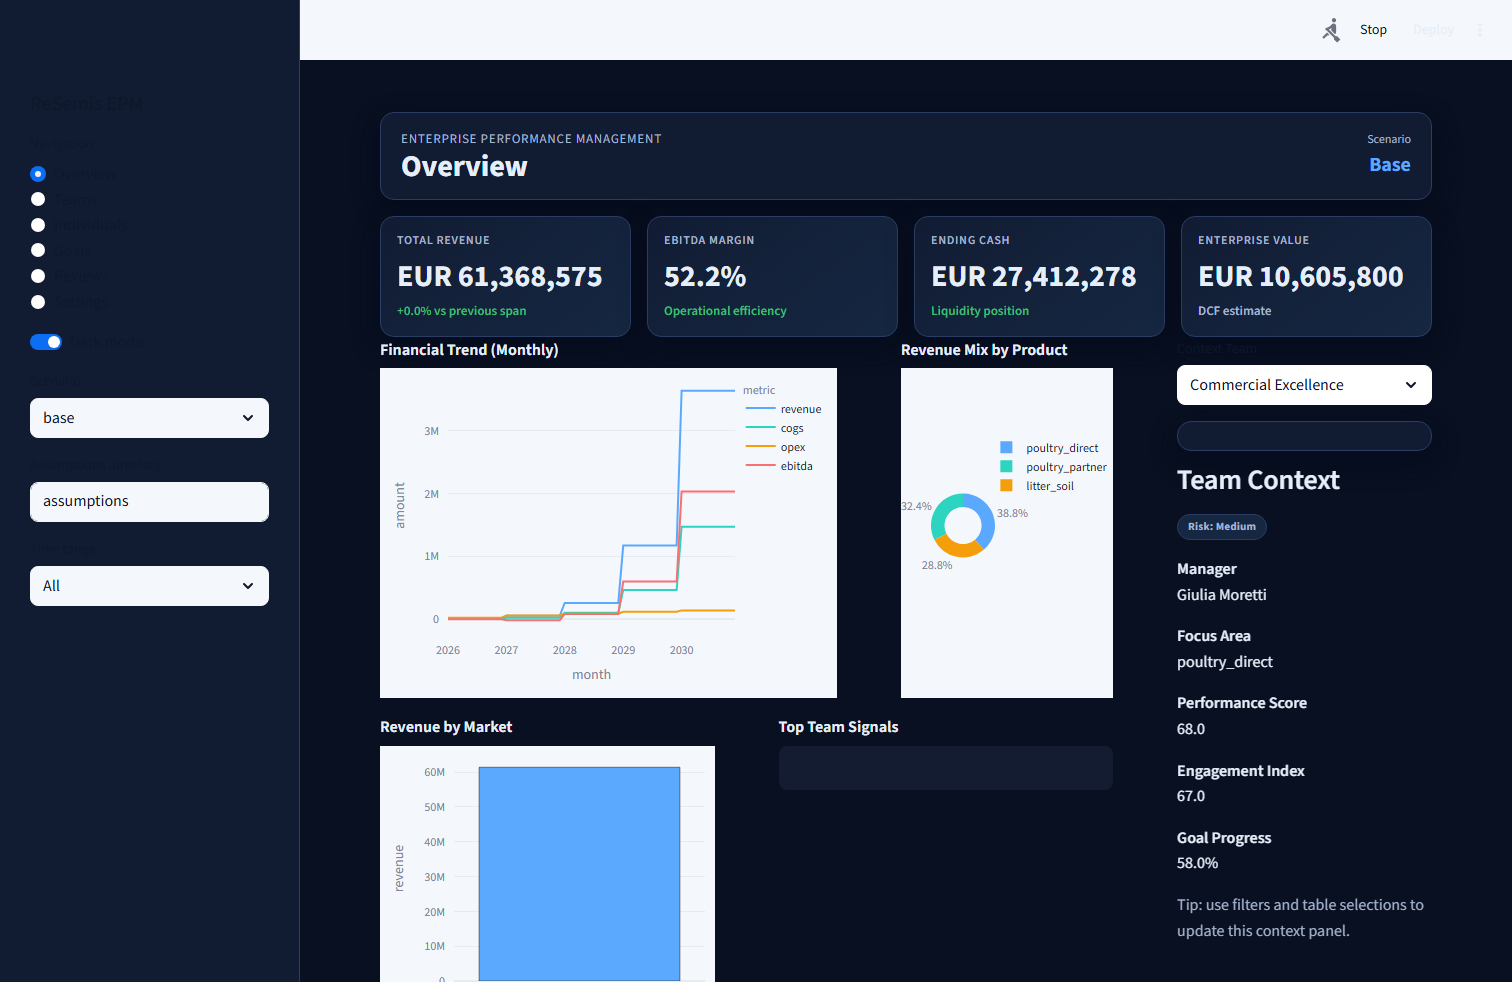
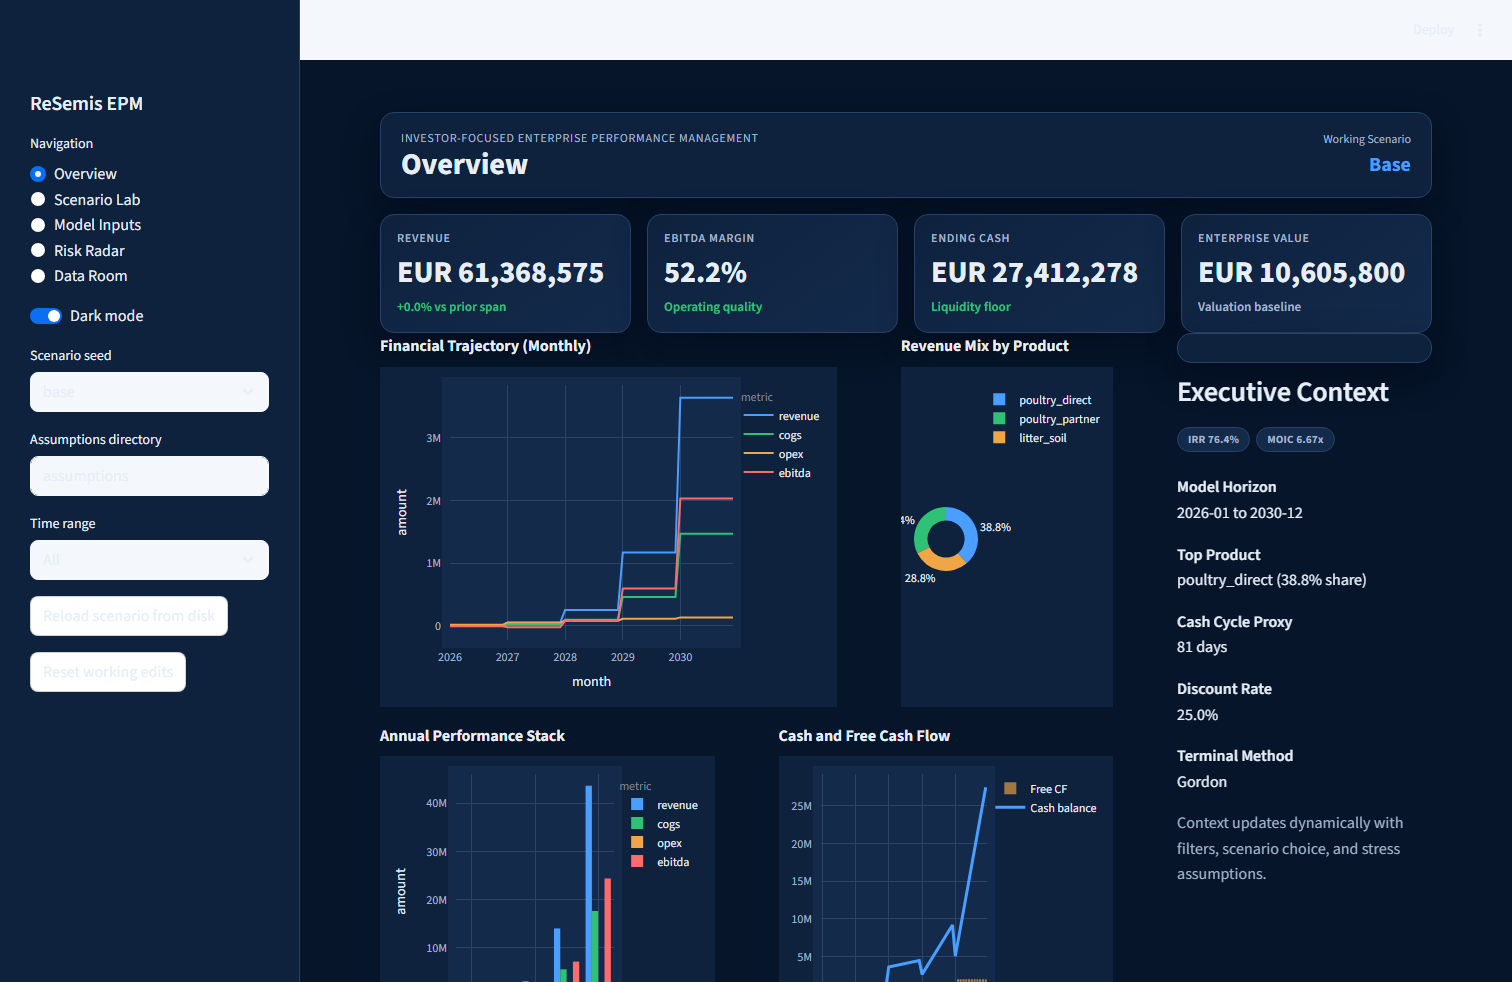
docs(ui): update validation artifacts and gsd state for finance ui

diff --git a/scripts/capture_ui_screenshots.py b/scripts/capture_ui_screenshots.py
@@ -5,6 +5,7 @@ from __future__ import annotations
 import subprocess
 import time
 from pathlib import Path
+from urllib.parse import quote
 from urllib.request import urlopen
 
 from playwright.sync_api import sync_playwright
@@ -13,7 +14,7 @@ from playwright.sync_api import sync_playwright
 PORT = 8503
 BASE_URL = f"http://127.0.0.1:{PORT}"
 OUT_DIR = Path("docs/design/ui-validation/screenshots")
-SECTIONS = ["overview", "teams", "individuals", "goals", "reviews", "settings"]
+SECTIONS = ["overview", "scenario lab", "model inputs", "risk radar", "data room"]
 THEMES = ["light", "dark"]
 
 
@@ -54,10 +55,10 @@ def main() -> None:
             for section in SECTIONS:
                 for theme in THEMES:
                     page = context.new_page()
-                    url = f"{BASE_URL}/?section={section}&theme={theme}"
+                    url = f"{BASE_URL}/?section={quote(section)}&theme={theme}"
                     page.goto(url, wait_until="domcontentloaded", timeout=45000)
                     page.wait_for_timeout(3500)
-                    path = OUT_DIR / f"{section}_{theme}.png"
+                    path = OUT_DIR / f"{section.replace(' ', '_')}_{theme}.png"
                     page.screenshot(path=str(path), full_page=True)
                     print(f"OK {path}")
                     page.close()

diff --git a/docs/design/MOODBOARD.md b/docs/design/MOODBOARD.md
@@ -1,50 +1,51 @@
 # ReSemis EPM UI Moodboard
 
-This moodboard synthesizes modern dashboard patterns for an enterprise EPM product used by executives, managers, and HR/finance stakeholders.
+This moodboard is now aligned to an investor/CEO/CFO use case, not HR workflows.
 
 ## Visual Direction
 
-- Professional minimalism: high-contrast typography, generous whitespace, constrained color palette with one accent.
-- Data-first hierarchy: top KPI strip, focused chart modules, then diagnostics tables.
-- Calm depth: soft radii, subtle panel shadows, restrained motion, clear affordances for filters and drill-down.
+- Investor cockpit style: strict hierarchy, clean surfaces, controlled accent color, low visual noise.
+- Decision-first narrative: headline KPIs first, then scenario spread, then risk and assumption drivers.
+- Auditability over decoration: every chart answers one financial question and maps to model assumptions.
 
-## Captured References
+## Key Reference Families
 
-### Inspiration Galleries
+### Dashboard shell and hierarchy
 
-1. Dribbble dashboard UI tag: `docs/design/moodboard/screenshots/dribbble_dashboard_ui.png`
-2. Dribbble performance dashboard search: `docs/design/moodboard/screenshots/dribbble_performance_dashboard.png`
-3. Awwwards dashboard gallery: `docs/design/moodboard/screenshots/awwwards_dashboard_gallery.png`
+1. Datadog dashboard layout patterns: `docs/design/moodboard/screenshots/datadog_dashboards_product.png`
+2. Power BI dashboard composition patterns: `docs/design/moodboard/screenshots/powerbi_design_tips.png`
+3. Tableau dashboard clarity rules: `docs/design/moodboard/screenshots/tableau_dashboard_best_practices.png`
 
-### Production Analytics References
+### Filters, controls, and drilldowns
 
-1. Power BI dashboard design guidance: `docs/design/moodboard/screenshots/powerbi_design_tips.png`
-2. Tableau dashboard best practices: `docs/design/moodboard/screenshots/tableau_dashboard_best_practices.png`
-3. Metabase filter UX patterns: `docs/design/moodboard/screenshots/metabase_filters.png`
-4. Datadog dashboard product page: `docs/design/moodboard/screenshots/datadog_dashboards_product.png`
-5. Looker dashboard docs: `docs/design/moodboard/screenshots/looker_dashboards_docs.png`
-6. Culture Amp action dashboard docs: `docs/design/moodboard/screenshots/cultureamp_action_dashboard.png`
-7. Lattice manager reporting docs: `docs/design/moodboard/screenshots/lattice_manager_reporting.png`
+1. Metabase filter system: `docs/design/moodboard/screenshots/metabase_filters.png`
+2. Looker dashboard exploration model: `docs/design/moodboard/screenshots/looker_dashboards_docs.png`
 
-## Pattern Extraction
+### FP&A and scenario-planning references
 
-- KPI strip at top with trend + delta and one headline value per card.
-- Left navigation + top control bar as the persistent shell.
-- Filter chips/dropdowns grouped by time, business unit, manager/team scope.
-- Right contextual panel for selected entity details and actions.
-- Grid modules that each answer one question (trend, distribution, variance, risk).
-- Dense tables only after high-level charts; include pagination and status badges.
-- Light and dark themes using shared semantic tokens (not one-off component overrides).
+1. Anaplan FP&A software positioning and use-case framing.
+2. Planful scenario-planning workflow concepts.
+3. Cube FP&A dashboard examples.
+4. CFI sensitivity-analysis/tornado pattern references.
+5. Local benchmark app: `C:/projects/resemis-model-audit/dashboard/app.py`
+
+## Pattern Synthesis Adopted
+
+- Top strip KPIs for Revenue, EBITDA Margin, Ending Cash, and Enterprise Value.
+- Dedicated Scenario Lab with deterministic scenario comparison plus stress sliders.
+- Explicit sensitivity view (single-metric tornado) for downside/upside communication.
+- Model Inputs workbench with editable client/market, product/pricing/mix, BOM/input costs, OpEx/CapEx/funding, and valuation blocks.
+- Risk Radar fed by model outputs (liquidity, concentration, working-capital pressure, valuation fragility).
+- Consistent light/dark mode tokens, including explicit chart canvas/grid/font colors to prevent unreadable dark-mode charts.
 
 ## Source URLs
 
-- https://dribbble.com/tags/dashboard-ui
-- https://dribbble.com/search/performance%20dashboard
-- https://www.awwwards.com/websites/dashboard/
+- https://www.datadoghq.com/product/platform/dashboards/
 - https://learn.microsoft.com/en-us/power-bi/create-reports/service-dashboards-design-tips
 - https://www.tableau.com/blog/best-practices-for-building-effective-dashboards
 - https://www.metabase.com/docs/latest/dashboards/filters
-- https://www.datadoghq.com/product/platform/dashboards/
 - https://cloud.google.com/looker/docs/viewing-dashboards
-- https://support.cultureamp.com/en/articles/7048527-admin-s-action-dashboard
-- https://help.lattice.com/hc/en-us/articles/1500004773502-The-Reporting-Page-for-Managers
+- https://www.anaplan.com/solutions/financial-planning-analysis-software/
+- https://planful.com/platform/scenario-planning/
+- https://www.cubesoftware.com/blog/fpa-dashboards
+- https://corporatefinanceinstitute.com/resources/valuation/sensitivity-analysis/

diff --git a/PLAN.md b/PLAN.md
@@ -1,23 +1,23 @@
 <task type="auto">
-  <name>Create visual research moodboard</name>
-  <files>docs/design/MOODBOARD.md,docs/design/moodboard/screenshots/*,scripts/capture_reference_screenshots.py</files>
-  <action>Capture high-signal visual references and synthesize a coherent direction for the EPM UI.</action>
-  <verify>python scripts/capture_reference_screenshots.py</verify>
-  <done>Moodboard markdown and screenshots are committed and traceable.</done>
+  <name>Realign dashboard IA to investor/CFO workflows</name>
+  <files>streamlit_app.py,ui/dashboard_data.py,docs/design/MOODBOARD.md</files>
+  <action>Replace HR-oriented views with financial overview, scenario lab, model inputs, risk radar, and data room aligned to investor-grade decision flows.</action>
+  <verify>python -m py_compile streamlit_app.py ui/dashboard_data.py</verify>
+  <done>Navigation, charts, and context panels reflect ReSemis financial model use-cases.</done>
 </task>
 
 <task type="auto">
-  <name>Implement multi-view dashboard with dark mode</name>
-  <files>streamlit_app.py,ui/dashboard_data.py,.streamlit/config.toml,requirements.txt</files>
-  <action>Deliver executive, team, and individual views with KPI cards, chart grid, filters, pagination, contextual right panel, and tokenized theme switch.</action>
-  <verify>python -m streamlit run streamlit_app.py --server.headless true --server.port 8501</verify>
-  <done>Dashboard runs locally and all sections render in light and dark mode.</done>
+  <name>Implement assumptions workbench and stress modeling</name>
+  <files>streamlit_app.py</files>
+  <action>Add editable input forms for clients/markets, products/pricing/mix, BOM/input costs, OpEx/CapEx/funding, valuation; add stress sliders and sensitivity tornado.</action>
+  <verify>python -m pytest -q</verify>
+  <done>Users can modify core model assumptions and instantly see financial and valuation impact.</done>
 </task>
 
 <task type="auto">
-  <name>Validate screenshots and deployment path</name>
+  <name>Validate dark-mode coverage and updated navigation screenshots</name>
   <files>scripts/capture_ui_screenshots.py,docs/design/ui-validation/*,README.md,DEPLOYMENT.md</files>
-  <action>Capture light/dark UI screenshots per section and document free-host deployment workflow.</action>
+  <action>Capture light/dark screenshots for new sections and ensure chart backgrounds/axes/labels are theme-correct.</action>
   <verify>python scripts/capture_ui_screenshots.py</verify>
-  <done>Theme transition evidence and deployment instructions are available for team handoff.</done>
+  <done>All new sections have dark/light evidence and documentation is aligned.</done>
 </task>

diff --git a/STATE.md b/STATE.md
@@ -1,21 +1,26 @@
 # State
 
 ## Current Milestone
-UI and collaboration rollout for hosted team usage.
+UI domain realignment for investor, CEO, and CFO workflows.
 
 ## Status
 - Milestone A (engine reliability): Completed.
-- Milestone B Phase 5 (design research): Completed.
-- Milestone B Phase 6 (UI implementation): Completed.
-- Milestone B Phase 7 (verification + deployment): Completed locally.
+- Milestone B Phase 5 (design research): Completed and updated to finance/investor references.
+- Milestone B Phase 6 (UI implementation): Reworked to finance-first information architecture.
+- Milestone B Phase 7 (verification + deployment): Light/dark validation rerun after refactor.
 
 ## Latest Outcomes
-- Archived previous Ralph run artifacts for traceability.
-- Created moodboard references and screenshot capture workflow.
-- Implemented multi-page Streamlit dashboard with dark mode and contextual detail panel.
-- Captured light/dark screenshots for all UI sections.
-- Added free-host deployment guide and dashboard runtime setup updates.
+- Removed HR-oriented sections and replaced them with:
+  - `Overview`
+  - `Scenario Lab`
+  - `Model Inputs`
+  - `Risk Radar`
+  - `Data Room`
+- Implemented assumption editing flows for clients, products, pricing, BOM, OpEx/CapEx, funding, and valuation.
+- Added scenario stress sliders and single-metric sensitivity tornado chart.
+- Fixed dark-mode chart rendering issues by explicitly setting Plotly paper/plot background and axis text/grid colors.
+- Updated screenshot automation and regenerated light/dark evidence for all new sections.
 
 ## Residual Risks
-- GitLab remote URL is not currently configured in repo.
-- Free-host deployment requires platform auth and project binding.
+- Scenario files are still YAML-driven and can diverge if edited manually outside the app; governance process is required.
+- Free-host deployment still requires platform auth and project binding from the browser session.

diff --git a/SUMMARY.md b/SUMMARY.md
@@ -24,9 +24,25 @@
   - `scripts/capture_reference_screenshots.py`
   - `scripts/capture_ui_screenshots.py`
 - Added free-host deployment documentation in `DEPLOYMENT.md`.
+- Replaced HR-style dashboard IA with investor/CFO domain structure:
+  - `Overview`
+  - `Scenario Lab`
+  - `Model Inputs`
+  - `Risk Radar`
+  - `Data Room`
+- Rebuilt dashboard data adapter (`ui/dashboard_data.py`) around financial, valuation, and risk structures.
+- Added scenario stress modeling controls and sensitivity tornado analysis in `streamlit_app.py`.
+- Added model-input editing workflows for clients/markets, products/pricing/mix, BOM/input costs, OpEx/CapEx/funding, and valuation.
+- Fixed dark-mode chart consistency by explicitly styling Plotly canvas, axis, grid, and text colors.
+- Updated screenshot automation and docs for the new section set:
+  - `scripts/capture_ui_screenshots.py`
+  - `docs/design/ui-validation/README.md`
+  - `docs/design/ui-validation/screenshots/*`
+- Updated moodboard notes for investor/FP&A references in `docs/design/MOODBOARD.md`.
 
 ## Validation
 - `python -m pytest -q` -> 106 passed.
+- `python -m py_compile streamlit_app.py ui/dashboard_data.py` -> passed.
 - `python main.py reconcile-workbook --xlsx ...v15.xlsx` runs successfully.
 - `python scripts/capture_ui_screenshots.py` runs successfully and captures all light/dark sections.
 

diff --git a/docs/design/ui-validation/README.md b/docs/design/ui-validation/README.md
@@ -17,11 +17,10 @@ The script launches the app on port `8503`, captures each section in both themes
 ## Coverage
 
 - Overview: `overview_light.png`, `overview_dark.png`
-- Teams: `teams_light.png`, `teams_dark.png`
-- Individuals: `individuals_light.png`, `individuals_dark.png`
-- Goals: `goals_light.png`, `goals_dark.png`
-- Reviews: `reviews_light.png`, `reviews_dark.png`
-- Settings: `settings_light.png`, `settings_dark.png`
+- Scenario Lab: `scenario_lab_light.png`, `scenario_lab_dark.png`
+- Model Inputs: `model_inputs_light.png`, `model_inputs_dark.png`
+- Risk Radar: `risk_radar_light.png`, `risk_radar_dark.png`
+- Data Room: `data_room_light.png`, `data_room_dark.png`
 
 ## Verification Checklist
 

diff --git a/README.md b/README.md
@@ -32,6 +32,14 @@ Optional flags:
 streamlit run streamlit_app.py
 ```
 
+Main sections:
+
+- `Overview`: investor/CEO/CFO top-line performance.
+- `Scenario Lab`: scenario comparison, stress modeling, sensitivity.
+- `Model Inputs`: editable assumptions for clients, products, BOM, OpEx/CapEx/funding, valuation.
+- `Risk Radar`: model-driven risk register.
+- `Data Room`: exportable detailed tables.
+
 ## Run CLI Engine
 
 ```powershell
